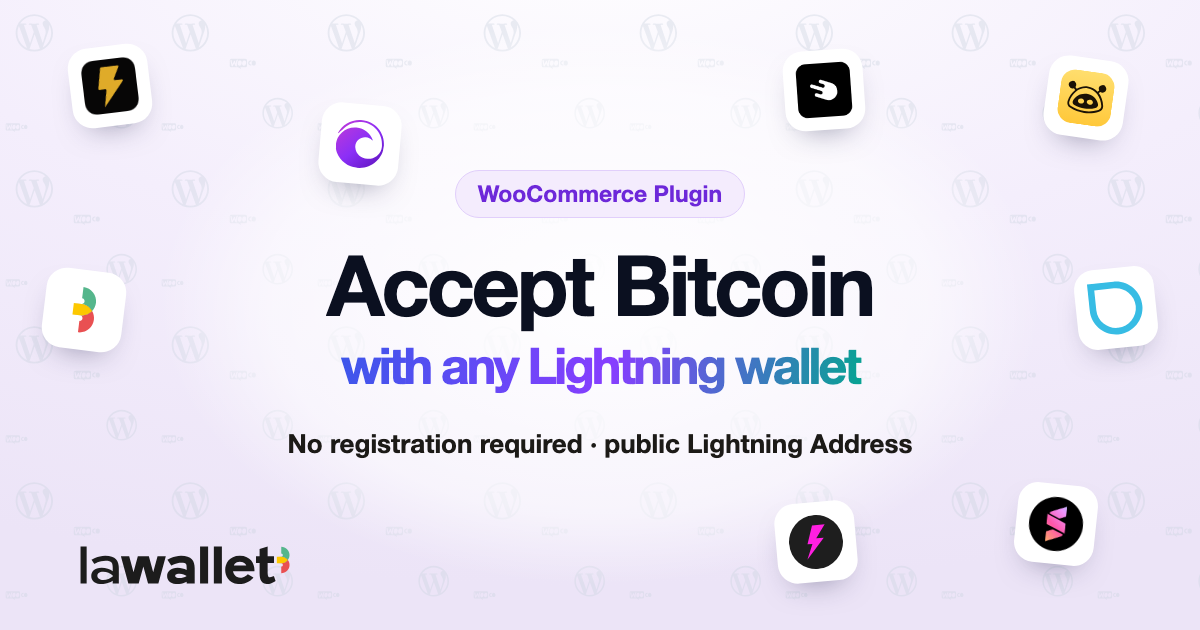
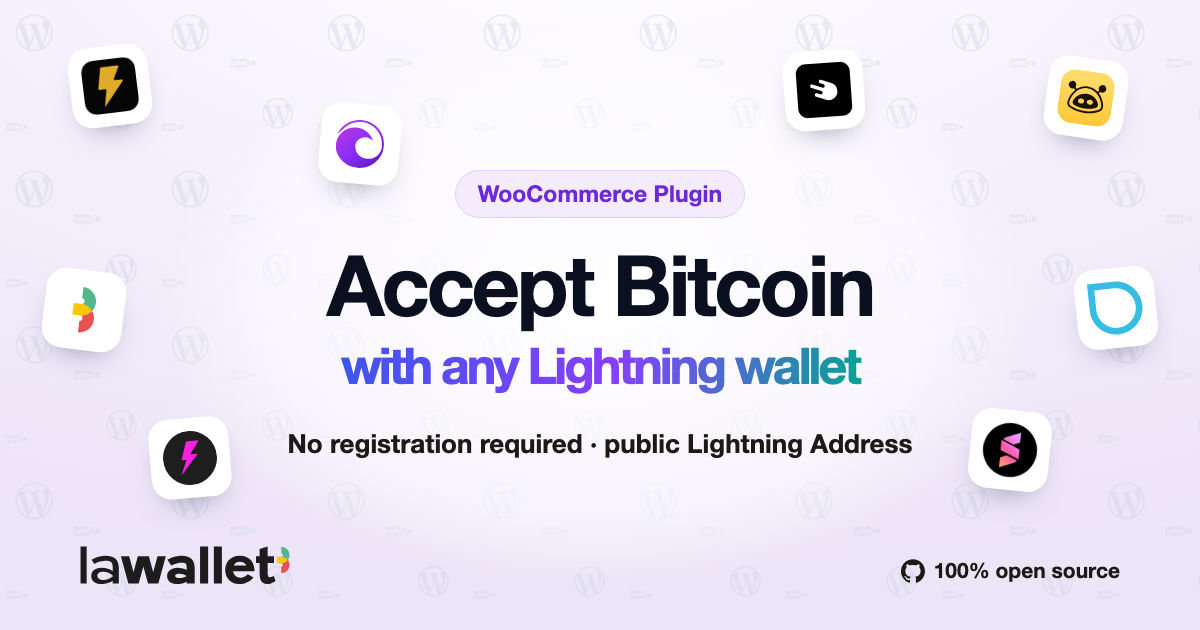
Social cards: make Variation E live, add open-source badge + docs
- og-e.html: add a small GitHub "100% open source" badge bottom-right; nudge two
  scattered wallet chips to keep that corner clear.
- Point og:image / twitter:image to og-image-e.png (Variation E is now live).
- Add SOCIAL-CARDS.md documenting the design tokens, reusable pieces, the five
  variations, and how to generate matching cards/banners with headless Chrome.

Changed region(s): [[0.6475, 0.6635, 0.9558, 0.9349], [0.1233, 0.6635, 0.2158, 0.8143]]

diff --git a/landing/og-e.html b/landing/og-e.html
@@ -18,6 +18,8 @@
     h1 { font-size: 84px; font-weight: 800; letter-spacing: -0.035em; line-height: 1.06; }
     h1 .grad { font-size: 50px; display: block; margin-top: 4px; line-height: 1.3; padding-bottom: 8px; }
     .sub { margin-top: 22px; font-size: 26px; font-weight: 700; color: #1c1a17; }
+    .oss { position: absolute; right: 80px; bottom: 46px; z-index: 4; display: inline-flex; align-items: center; gap: 9px; font-size: 21px; font-weight: 700; color: #1c1a17; }
+    .oss svg { width: 24px; height: 24px; }
   </style>
 </head>
 <body>
@@ -29,8 +31,8 @@
   <span class="chip" style="top:50px;right:336px;transform:rotate(-4deg)"><img src="assets/wallets/strike.png" alt="" /></span>
   <span class="chip" style="top:58px;right:74px;transform:rotate(8deg)"><img src="assets/wallets/alby.svg" alt="" /></span>
   <span class="chip" style="top:268px;right:44px;transform:rotate(-6deg)"><img src="assets/wallets/coincorner.svg" alt="" /></span>
-  <span class="chip" style="bottom:66px;right:104px;transform:rotate(6deg)"><img src="assets/wallets/spark.png" alt="" /></span>
-  <span class="chip" style="bottom:48px;right:344px;transform:rotate(-5deg)"><img src="assets/wallets/lnbits.svg" alt="" /></span>
+  <span class="chip" style="bottom:140px;right:150px;transform:rotate(6deg)"><img src="assets/wallets/spark.png" alt="" /></span>
+  <span class="chip" style="bottom:132px;left:150px;transform:rotate(-5deg)"><img src="assets/wallets/lnbits.svg" alt="" /></span>
   <span class="chip" style="top:270px;left:44px;transform:rotate(7deg)"><img src="assets/lawallet-icon.svg" alt="" /></span>
 
   <div class="wrap">
@@ -40,5 +42,9 @@
   </div>
 
   <img class="brand" src="assets/lawallet-logo.svg" alt="LaWallet" />
+  <span class="oss">
+    <svg viewBox="0 0 24 24" fill="#1c1a17" aria-hidden="true"><path d="M12 .297c-6.63 0-12 5.373-12 12 0 5.303 3.438 9.8 8.205 11.385.6.113.82-.258.82-.577 0-.285-.01-1.04-.015-2.04-3.338.724-4.042-1.61-4.042-1.61C4.422 18.07 3.633 17.7 3.633 17.7c-1.087-.744.084-.729.084-.729 1.205.084 1.838 1.236 1.838 1.236 1.07 1.835 2.809 1.305 3.495.998.108-.776.417-1.305.76-1.605-2.665-.3-5.466-1.332-5.466-5.93 0-1.31.465-2.38 1.235-3.22-.135-.303-.54-1.523.105-3.176 0 0 1.005-.322 3.3 1.23.96-.267 1.98-.399 3-.405 1.02.006 2.04.138 3 .405 2.28-1.552 3.285-1.23 3.285-1.23.645 1.653.24 2.873.12 3.176.765.84 1.23 1.91 1.23 3.22 0 4.61-2.805 5.625-5.475 5.92.42.36.81 1.096.81 2.22 0 1.606-.015 2.896-.015 3.286 0 .315.21.69.825.57C20.565 22.092 24 17.592 24 12.297c0-6.627-5.373-12-12-12"/></svg>
+    100% open source
+  </span>
 </body>
 </html>

diff --git a/landing/index.html b/landing/index.html
@@ -15,8 +15,8 @@
   <meta property="og:url" content="https://wordpress.lawallet.io/" />
   <meta property="og:title" content="Accept Bitcoin via Lightning Address — WordPress plugin" />
   <meta property="og:description" content="The WordPress + WooCommerce plugin to accept Bitcoin, connecting the most popular Lightning wallets. Free forever, open source, non-custodial." />
-  <meta property="og:image" content="https://wordpress.lawallet.io/og-image-b.png" />
-  <meta property="og:image:secure_url" content="https://wordpress.lawallet.io/og-image-b.png" />
+  <meta property="og:image" content="https://wordpress.lawallet.io/og-image-e.png" />
+  <meta property="og:image:secure_url" content="https://wordpress.lawallet.io/og-image-e.png" />
   <meta property="og:image:type" content="image/png" />
   <meta property="og:image:width" content="1200" />
   <meta property="og:image:height" content="630" />
@@ -26,7 +26,7 @@
   <meta name="twitter:card" content="summary_large_image" />
   <meta name="twitter:title" content="Accept Bitcoin via Lightning Address — WordPress plugin" />
   <meta name="twitter:description" content="The WordPress + WooCommerce plugin to accept Bitcoin, connecting the most popular Lightning wallets. Free forever, open source." />
-  <meta name="twitter:image" content="https://wordpress.lawallet.io/og-image-b.png" />
+  <meta name="twitter:image" content="https://wordpress.lawallet.io/og-image-e.png" />
   <meta name="twitter:image:alt" content="Accept Bitcoin via Lightning Address — a WooCommerce plugin by LaWallet." />
 
   <link rel="preconnect" href="https://fonts.googleapis.com" />

diff --git a/landing/SOCIAL-CARDS.md b/landing/SOCIAL-CARDS.md
@@ -1,0 +1,109 @@
+# Social cards & banners — design system
+
+How to make share images, OG cards, and banners for **LaWallet × WordPress** that
+match the landing's first-section look (light purple, watermarked, gradient
+headline). Everything is plain HTML rendered to PNG with headless Chrome — no
+build step, no design tool.
+
+The live Open Graph / Twitter card is set in `index.html`
+(`og:image` / `twitter:image`). Point it at whichever PNG you want.
+
+---
+
+## The vibe (design tokens)
+
+| Token | Value |
+|---|---|
+| Background | `radial-gradient(120% 105% at 50% -12%, #ffffff 0%, #f4eefc 50%, #ece4f7 100%)` |
+| Watermark | `assets/wp-woo-pattern.svg`, `background-size: 156px`, `opacity: .4–.5` |
+| Vignette (keeps center legible) | `radial-gradient(56% 60% at 50% 46%, rgba(255,255,255,.92), transparent)` |
+| Accent gradient (headline) | `linear-gradient(100deg, #3858E9, #873EFF 52%, #00a98c)` |
+| Ink / heading | `#0b1020` · secondary ink `#1c1a17` |
+| Muted text | `#6b6577` |
+| WooCommerce purple | `#7F54B3` · deep `#6d28d9` · pill bg `#f4ecfd` / border `#e1cffb` |
+| Bitcoin orange | `#f7931a` |
+| Font | `'Inter', 'Helvetica Neue', Arial, sans-serif` |
+| Canvas | `1200 × 630` (OG/Twitter ratio 1.91:1) |
+
+**Gradient text gotcha:** `-webkit-background-clip: text` clips descenders
+(g, y, p) when line-height is tight. Always give gradient headings
+`line-height: ~1.25` and a little `padding-bottom` (~6–8px).
+
+---
+
+## Reusable pieces
+
+- **Logo lockup** — WordPress + WooCommerce in a white rounded card:
+  `assets/wordpress.png` (height ~36–52) + 1px divider + `assets/woocommerce-2015.svg` (height ~30–44).
+- **Wallet chips** — white rounded tiles (so dark app icons read on light):
+  `width/height ~80–96; border-radius 20; background:#fff; padding 14–16;`
+  `img { object-fit: contain; max-width/height: 100% }`. Sources in `assets/wallets/`
+  (`wallet-of-satoshi.png`, `primal.svg`, `strike.png`, `alby.svg`, `coincorner.svg`,
+  `spark.png`, `lnbits.svg`) + `assets/lawallet-icon.svg`.
+- **WooCommerce pill** — `#f4ecfd` bg, `#e1cffb` border, `#6d28d9` text, label "WooCommerce Plugin".
+- **Bitcoin accent** — `assets/bitcoin.svg` (~60–70px) in a corner.
+- **LaWallet logo** — `assets/lawallet-logo.svg` (dark wordmark, trimmed), bottom-left, height ~38.
+- **Open-source badge** — inline GitHub mark (`fill:#1c1a17`) + "100% open source", bottom-right.
+
+Standard footer: **LaWallet logo bottom-left, "100% open source" bottom-right.**
+
+---
+
+## The variations (kept in the repo)
+
+| Source | Image | What it is |
+|---|---|---|
+| `og.html`   | `og-image.png`   | A — centered logo lockup, "Accept Bitcoin via Lightning Address" |
+| `og-b.html` | `og-image-b.png` | B — text left, WP+Woo card right |
+| `og-c.html` | `og-image-c.png` | C — bold "No registration required" statement |
+| `og-d.html` | `og-image-d.png` | D — all wallet logos grouped in a row |
+| `og-e.html` | `og-image-e.png` | **E (live)** — wallet logos scattered around the message + "100% open source" |
+
+---
+
+## Generate / regenerate
+
+Each `og-*.html` is self-contained and references `assets/` relatively. Render
+to PNG with headless Chrome (macOS path shown):
+
+```bash
+cd landing
+CHROME="/Applications/Google Chrome.app/Contents/MacOS/Google Chrome"
+"$CHROME" --headless --disable-gpu --hide-scrollbars --allow-file-access-from-files \
+  --force-device-scale-factor=1 --window-size=1200,630 \
+  --default-background-color=00000000 \
+  --screenshot="$PWD/og-image-e.png" "file://$PWD/og-e.html"
+```
+
+- Swap `og-e.html` / `og-image-e.png` for the file you're rendering.
+- `--force-device-scale-factor=2` → a crisp 2× (2400×1260) export.
+- Verify before shipping: open the PNG, check no gradient descenders are clipped
+  and nothing overlaps the bottom-left logo / bottom-right badge.
+
+### Make a new card
+1. Copy the closest `og-*.html` to `og-<name>.html`.
+2. Keep `.wm` + `.vig` + the token colors; change the copy/layout.
+3. Keep the footer (LaWallet bottom-left, "100% open source" bottom-right).
+4. Render to `og-image-<name>.png` with the command above.
+
+### Banners / other sizes
+Same recipe, change `--window-size` **and** the `html,body` width/height to match:
+
+| Use | Size |
+|---|---|
+| OG / Twitter card | 1200 × 630 |
+| GitHub social preview | 1280 × 640 |
+| X / Twitter header | 1500 × 500 |
+| Wide hero banner | 1600 × 500 |
+
+For short banners, drop to a single row: logo lockup · headline · wallet chips ·
+footer. Keep the watermark + gradient so it still reads as the same family.
+
+---
+
+## Set the live card
+
+In `index.html`, the `og:image`, `og:image:secure_url`, and `twitter:image`
+point to the live PNG (absolute `https://wordpress.lawallet.io/...`). Change the
+filename to switch. After deploy, refresh caches via the Facebook Sharing
+Debugger and the X Card Validator.
